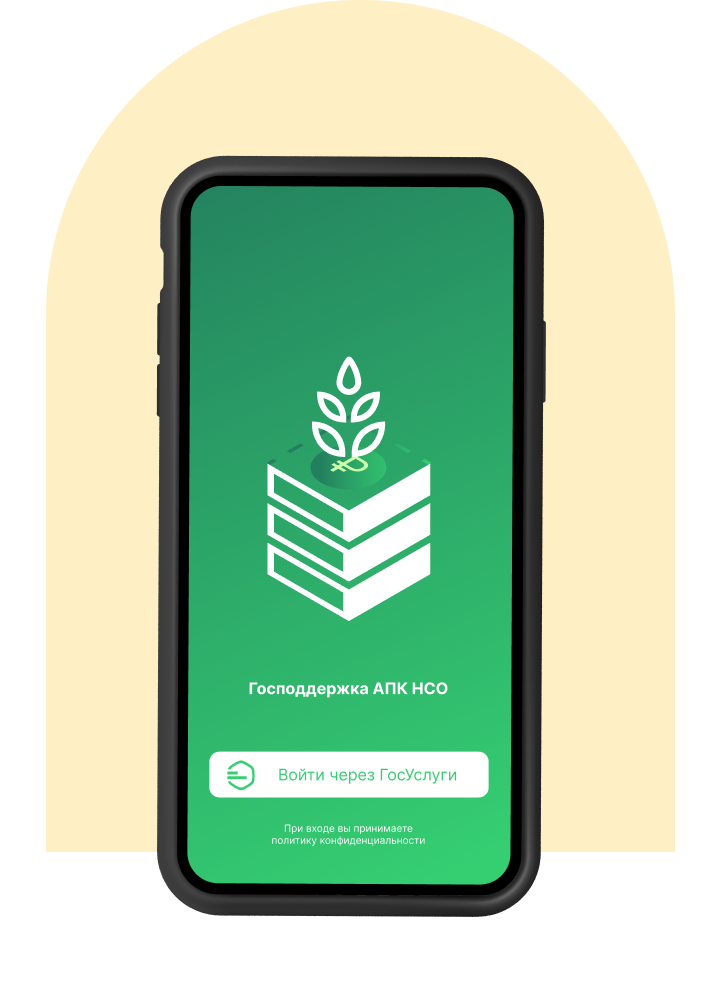
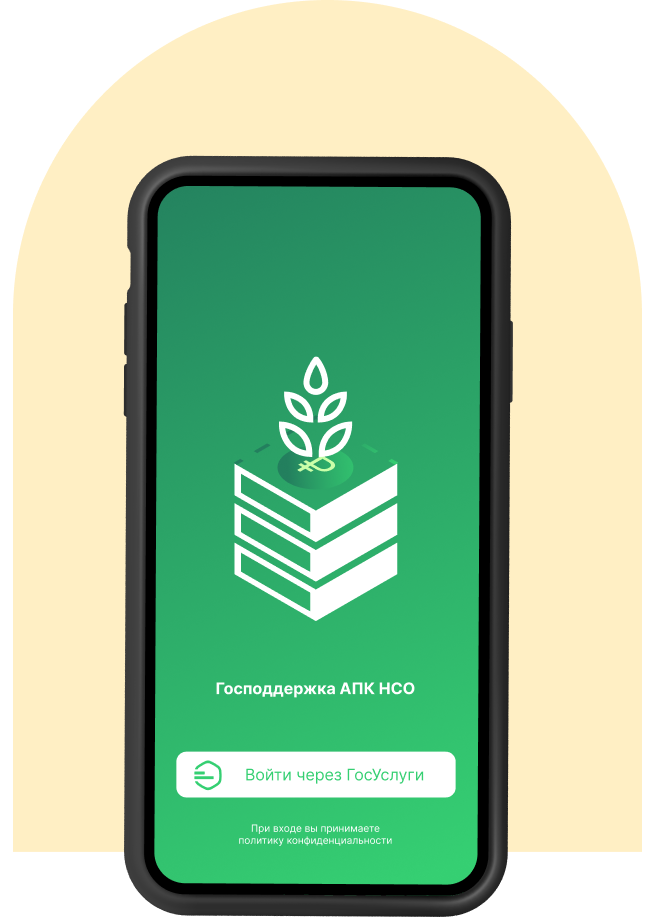
right col fixed

diff --git a/src/components/MobileApp.vue b/src/components/MobileApp.vue
@@ -5,7 +5,7 @@
         <div class="page-head">
           <p class="app-name">Mobile App</p>
 
-          <h1>Lorem, ipsum dolor.</h1>
+          <!--  <h1>Lorem, ipsum dolor.</h1> -->
           <h1>Господдержка АПК НСО</h1>
 
           <p>Мобильное приложение для ИС.РЕСПАК для региона Новосибирск</p>
@@ -34,7 +34,26 @@
       </div>
 
       <div class="right-col">
-        <img class="hand-phone" src="/imgs/phoneBg-no-hand.png" alt="" />
+        <img class="phone" src="/imgs/phoneBg-no-hand.png" alt="" />
+        <div class="links-stats-wrapper">
+          <div class="links">
+            <a href="#"
+              ><img src="/imgs/apple-logo.png" alt="apple-logo" href="#"
+            /></a>
+            <a href="#">
+              <img
+                src="/imgs/playmarket-logo.png"
+                alt="playmarket-logo"
+                href="#"
+              />
+            </a>
+            <a href="#"><img src="/imgs/rustore.png" alt="ruStore-logo" /></a>
+          </div>
+          <div class="subsidy-wrapper">
+            <img class="subsidy-stats" src="/imgs/subsidy-stats.svg" alt="" />
+          </div>
+        </div>
+        <img class="smev" src="/imgs/smev.png" alt="" />
       </div>
     </div>
   </div>
@@ -48,16 +67,72 @@
 }
 .container {
   display: grid;
+  gap: 75px;
   justify-items: center;
-  grid-template-columns: repeat(2, minmax(0, 1fr));
+  align-items: center;
+  grid-template-columns: min-content auto;
   /*  padding-left: 210px; */
-
-  border: 1px solid red;
 
   position: relative;
 }
 
-.hand-phone {
+.left-col {
+  min-width: 610px;
+  margin-left: 180px;
+}
+
+.right-col {
+  display: flex;
+  width: 100%;
+  justify-content: flex-start;
+  position: relative;
+
+  .phone {
+    z-index: 10;
+  }
+  .smev {
+    position: absolute;
+    z-index: 0;
+    bottom: -10%;
+    left: -10%;
+  }
+}
+
+.links-stats-wrapper {
+  margin-left: 2rem;
+  display: flex;
+  flex-direction: column;
+  justify-content: center;
+  align-items: center;
+  .links {
+    display: flex;
+    width: 100%;
+    align-items: center;
+    justify-content: space-between;
+    img {
+      padding: 18px;
+
+      border-radius: 23px;
+      background: #fff;
+      box-shadow: 6px 6px 24px 0px rgba(0, 0, 0, 0.1);
+
+      transition: 0.5s;
+      &:hover {
+        transform: translateY(-10px);
+      }
+    }
+  }
+
+  .subsidy-wrapper {
+    margin-top: 22px;
+    width: fit-content;
+
+    img {
+      border-radius: 14px;
+      background: #fff;
+      box-shadow: 6px 6px 54px 5px rgba(0, 0, 0, 0.2);
+    }
+  }
 }
 
 .page-head {
@@ -105,6 +180,11 @@
     font-weight: 500;
     margin-top: 110px;
 
+    transition: 0.5s;
+    &:hover {
+      transform: translateY(-10px);
+    }
+
     img {
       position: absolute;
       top: -150%;
@@ -112,7 +192,7 @@
     }
 
     &:last-of-type {
-      margin-bottom: 85px;
+      margin-bottom: 2rem;
     }
   }
 }
